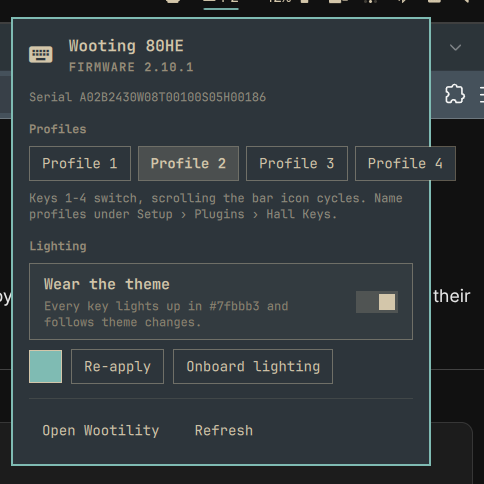
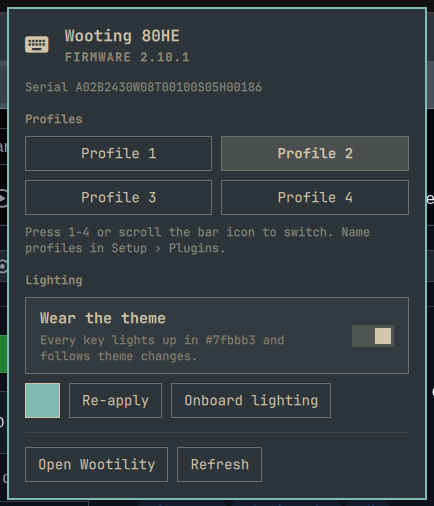
Panel: profile grid, matching swatch and footer buttons

diff --git a/Panel.qml b/Panel.qml
@@ -132,18 +132,32 @@ Panel {
                         fontFamily: root.fontFamily
                     }
 
-                    ButtonGroup {
+                    Grid {
+                        id: profileGrid
                         width: parent.width
-                        options: Model.profileOptions(root.widgetSettings, root.profileCount)
-                        value: String(root.profileIndex)
-                        foreground: root.foreground
-                        fontFamily: root.fontFamily
-                        onChanged: function(v) { if (root.keys) root.keys.setProfile(Number(v)) }
+                        columns: 2
+                        columnSpacing: Style.space(8)
+                        rowSpacing: Style.space(8)
+                        readonly property real cellWidth: (width - columnSpacing) / 2
+
+                        Repeater {
+                            model: root.profileCount
+                            delegate: Button {
+                                required property int index
+                                width: profileGrid.cellWidth
+                                text: Model.profileLabel(root.widgetSettings, index)
+                                selected: index === root.profileIndex
+                                bordered: true
+                                foreground: root.foreground
+                                fontFamily: root.fontFamily
+                                onClicked: if (root.keys) root.keys.setProfile(index)
+                            }
+                        }
                     }
 
                     Text {
                         width: parent.width
-                        text: "Keys 1-4 switch, scrolling the bar icon cycles. Name profiles under Setup › Plugins › Hall Keys."
+                        text: "Press 1-4 or scroll the bar icon to switch. Name profiles in Setup › Plugins."
                         color: root.foreground
                         opacity: 0.6
                         font.family: root.fontFamily
@@ -181,8 +195,8 @@ Panel {
                         spacing: Style.space(8)
 
                         Rectangle {
-                            width: Style.space(28)
-                            height: Style.space(28)
+                            width: reapplyButton.height
+                            height: reapplyButton.height
                             radius: Style.cornerRadius
                             color: Model.isHexColor(root.themeColor) ? root.themeColor : "transparent"
                             border.width: 1
@@ -191,6 +205,7 @@ Panel {
                         }
 
                         Button {
+                            id: reapplyButton
                             text: "Re-apply"
                             tooltipText: "Send the theme color to the keyboard again"
                             enabled: root.themeLighting
@@ -273,6 +288,7 @@ Panel {
                         tooltipText: "Full configuration in the browser (wootility.io)"
                         foreground: root.foreground
                         fontFamily: root.fontFamily
+                        bordered: true
                         onClicked: if (root.keys) root.keys.openWootility()
                     }
 
@@ -280,6 +296,7 @@ Panel {
                         text: "Refresh"
                         foreground: root.foreground
                         fontFamily: root.fontFamily
+                        bordered: true
                         onClicked: if (root.keys) root.keys.refresh()
                     }
                 }
